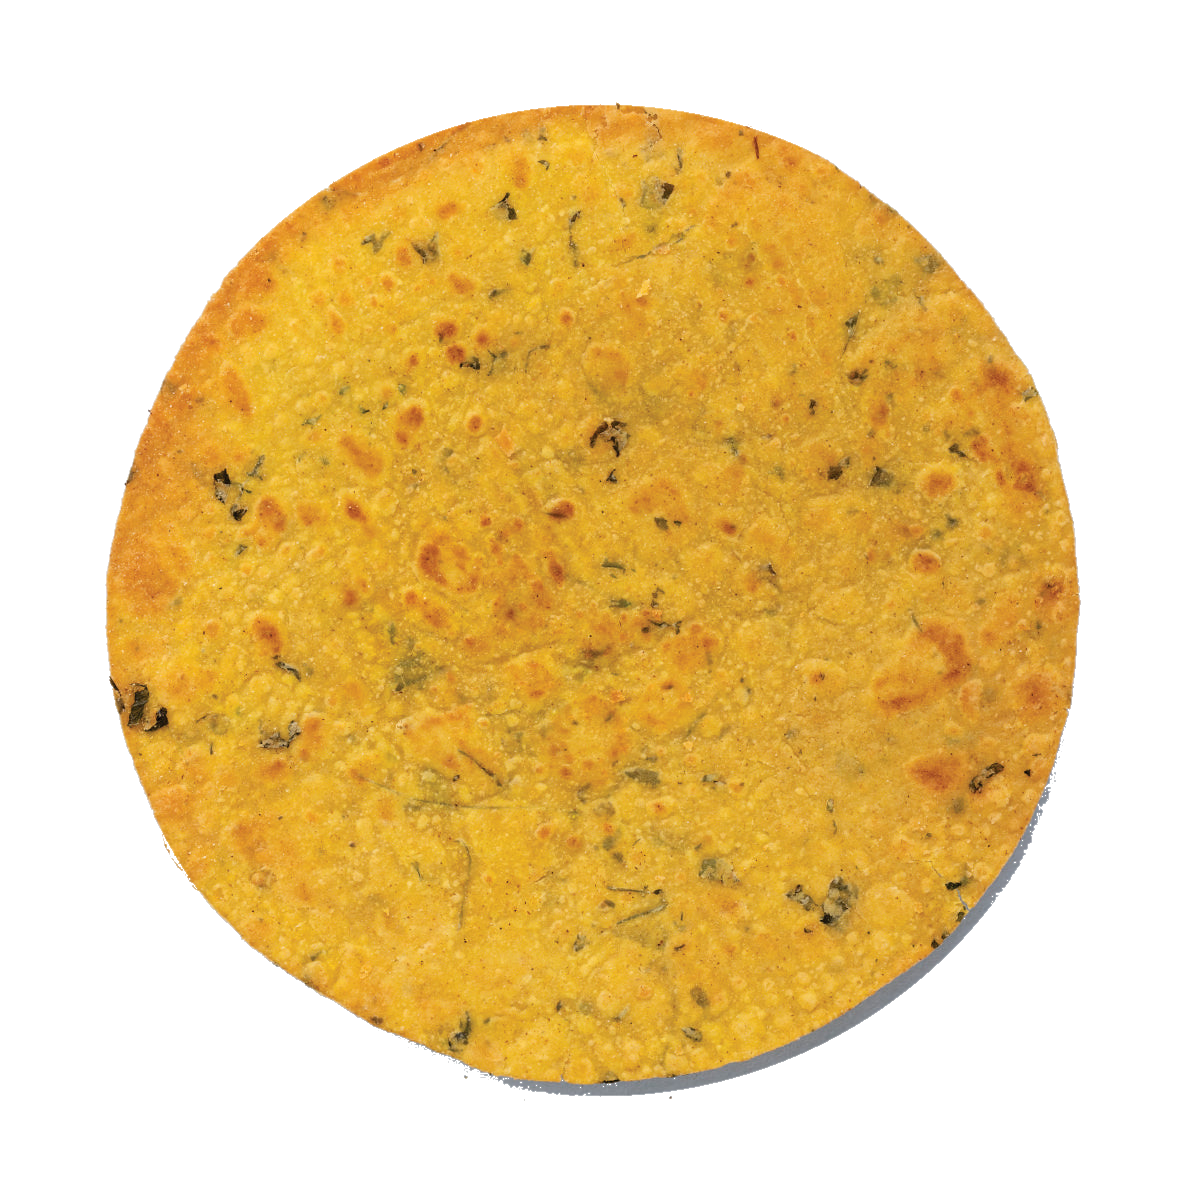
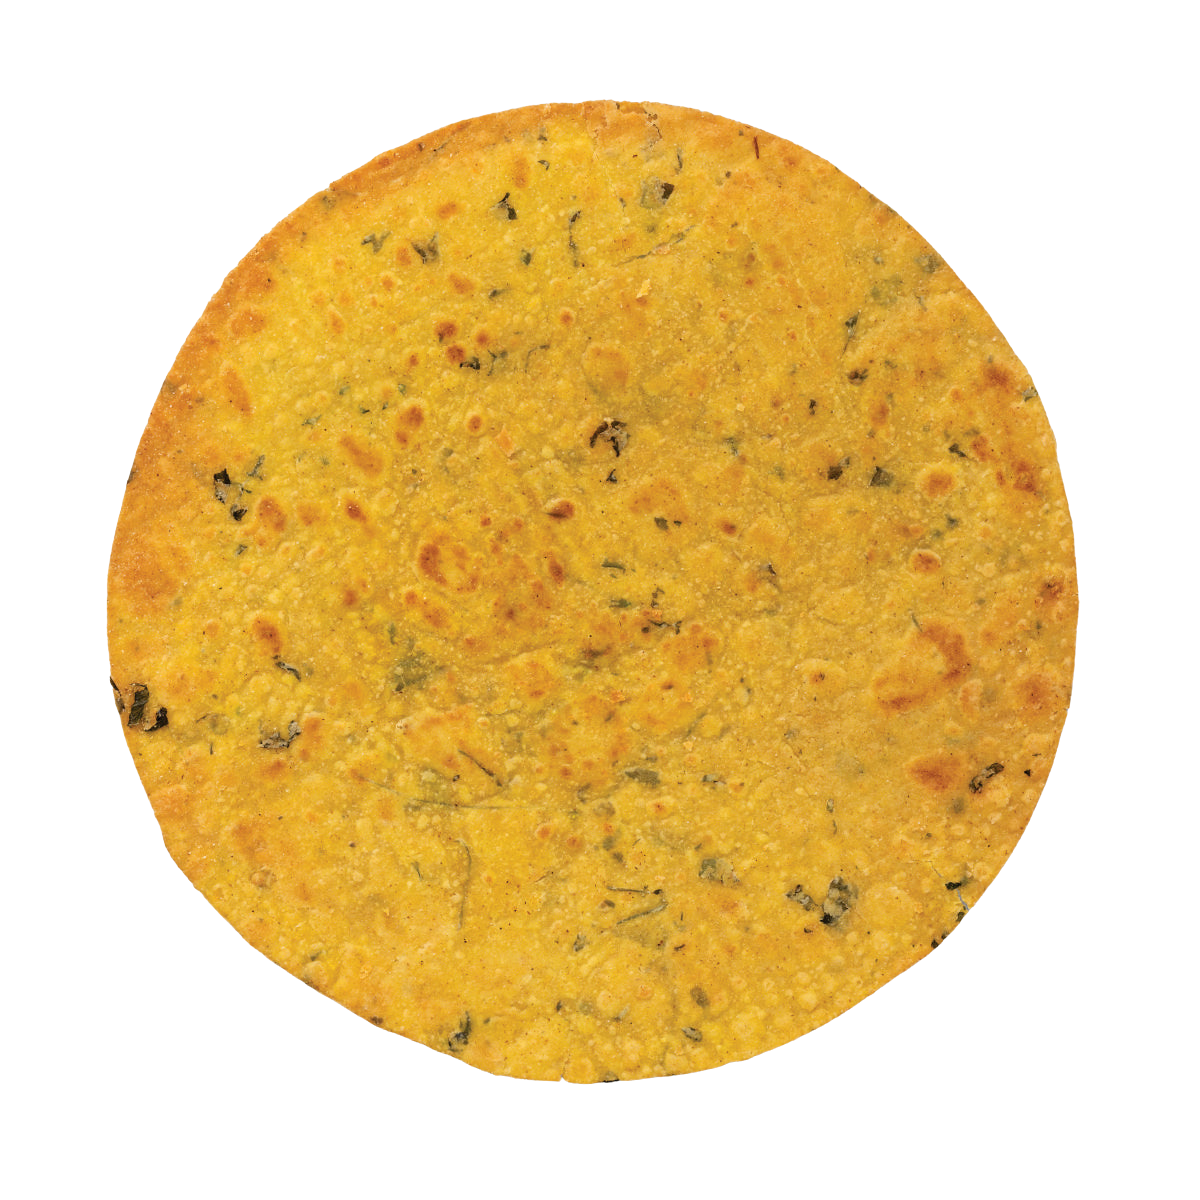
feat: add TheCrunchOfIndiaHero component with 3D product carousel and new branding assets

diff --git a/frontend/app/components/TheCrunchOfIndiaHero.tsx b/frontend/app/components/TheCrunchOfIndiaHero.tsx
@@ -33,7 +33,7 @@ const FLAVORS: FlavorItem[] = [
     id: "methi",
     name: "Methi Khakhra",
     packetImg: "/images/products/methi-pouch.png",
-    discImg: "/images/products/methi-khakhra.png",
+    discImg: "/images/products/methi khakhra.png",
     color: "#16A34A",
     glowColor: "rgba(22, 163, 74, 0.20)",
     floatingIngredient: "🌿",
